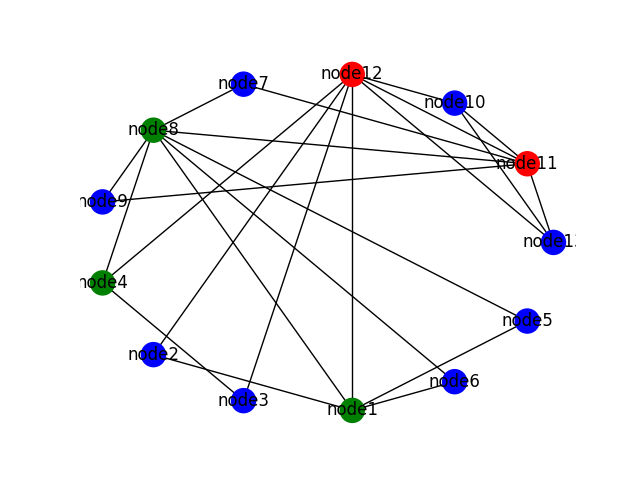
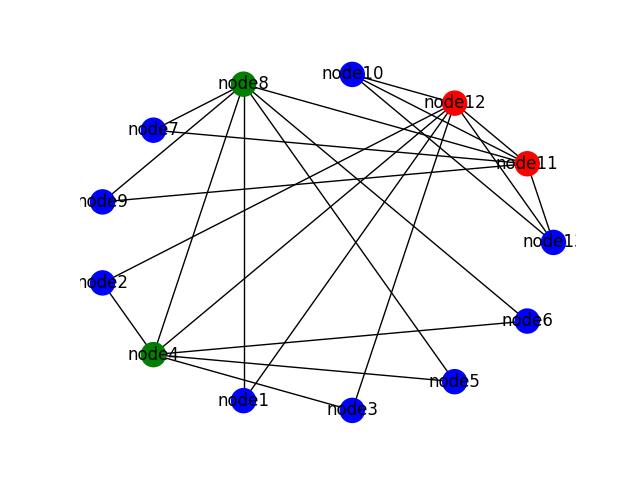
add route

diff --git a/node/node.py b/node/node.py
@@ -197,6 +197,25 @@ class Node:
             nx.draw_shell(self.network_graph, with_labels=True)
         plt.savefig(f'artefacts/{self.name}.png')
 
+    def visualize_route(self, route):
+        def_col = 'b'
+        copy_graph = copy(self.network_graph)
+        plt.plot()
+        plt.axis('off')
+        start_node = route[0]
+        for hop in route[1:]:
+            copy_graph.edges[start_node, hop]['color'] = 'r'
+            start_node = hop
+        edges_color = []
+        for x in copy_graph.edges().data():
+            if(col := x[2].get('color')):
+                edges_color.append(col)
+            else:
+                edges_color.append(def_col)
+        nx.draw_shell(self.network_graph, with_labels=True, edge_color=edges_color)
+        plt.savefig(f'artefacts/{self.name}-route.png')
+
+
     def get_data(self, node):
         return self.network_graph.nodes().data()[node]
 
@@ -260,10 +279,13 @@ class Node:
             return []
         return nx.shortest_path(self.network_graph, self.name, dest_node)
 
-def test_path(node):
+def test_path(node, visualize=False):
     neighbours = list(node.network_graph.neighbors(node.name)) + [node.name]
     second_node = choice([x for x in node.network_graph.nodes() if x not in neighbours])
-    node.logger.info(f'Shortest path to {second_node}: {node.get_route(second_node)}')
+    route = node.get_route(second_node)
+    node.logger.info(f'Shortest path to {second_node}: {route}')
+    if visualize:
+        node.visualize_route(route)
 
 if len(sys.argv) > 2:
     print('Usage: python node.py [config]')
@@ -291,5 +313,5 @@ node.visualize_network(with_mpr=True)
 # node.logger.info(node.get_notwork_info())
 
 test_path(node)
-test_path(node)
-test_path(node)
+# test_path(node)
+# test_path(node)
